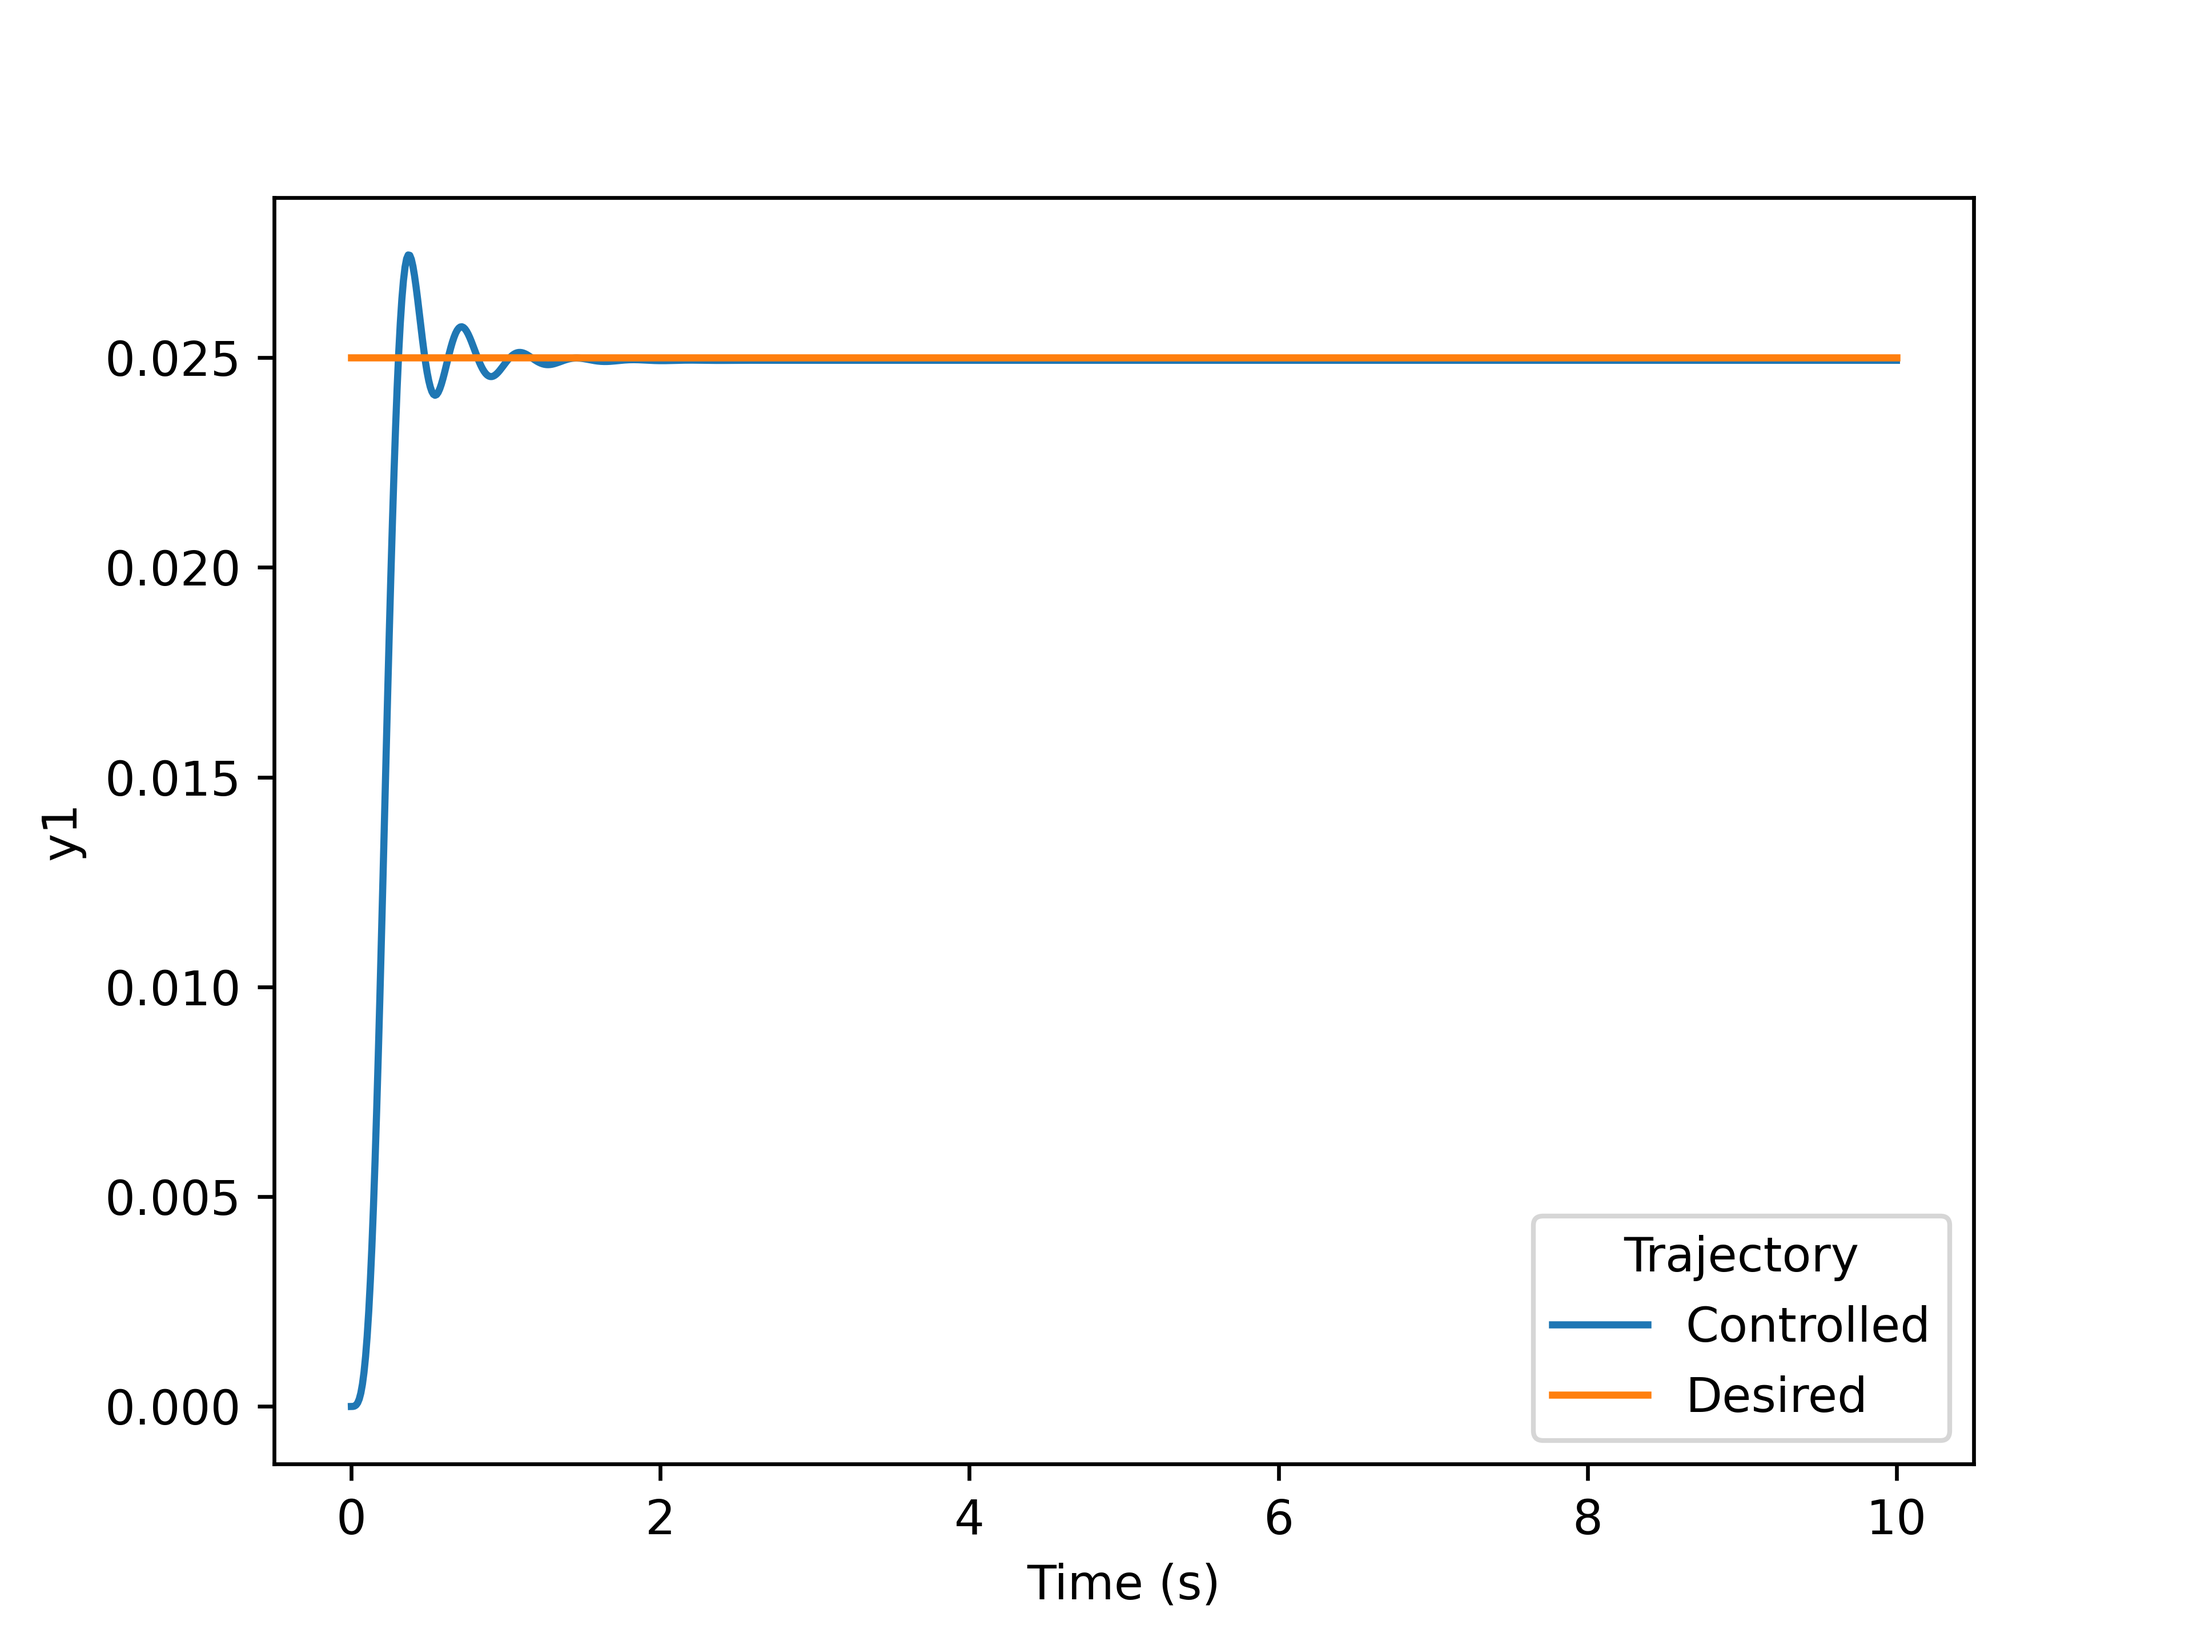
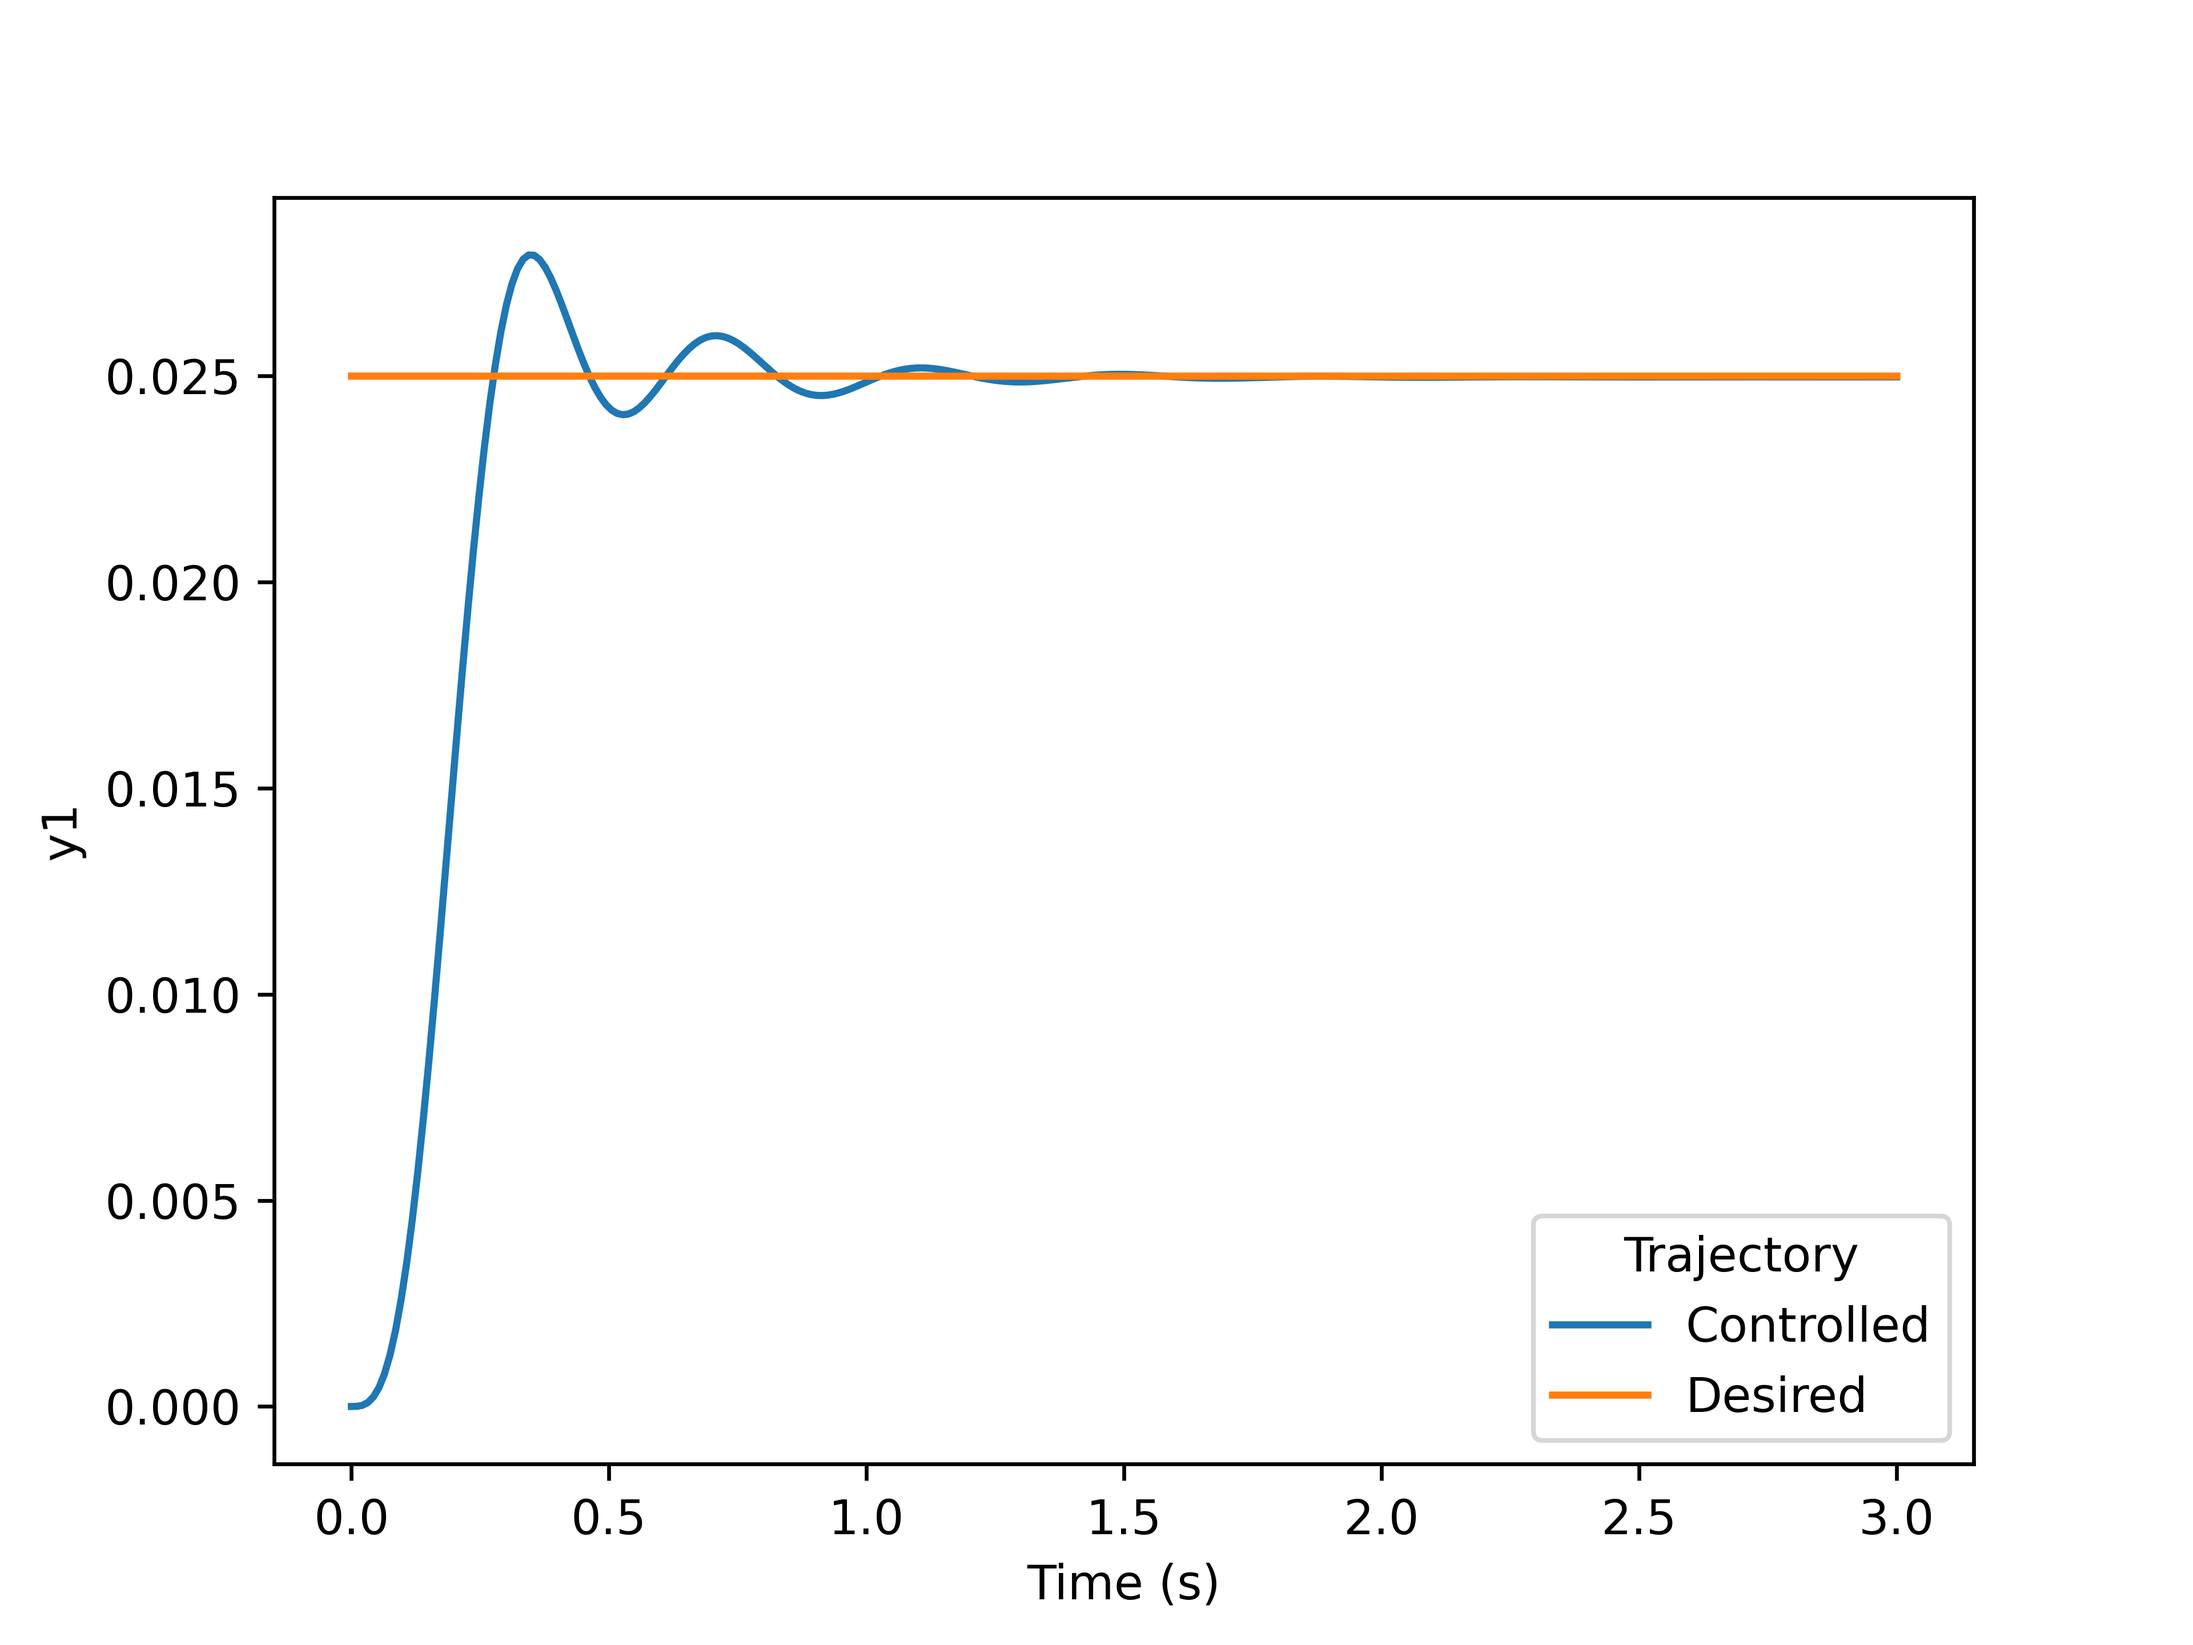
Bounds implemented for SD and AVL

diff --git a/MPC/src/utils.py b/MPC/src/utils.py
@@ -50,7 +50,7 @@ def simulate(a, b, c, u, x0, t_end):
     # Return states:
     return y, x
 
-def plot_graphs(time_ctrl, y, y_des, ctrl, opt):
+def plot_graphs(time_ctrl, y, y_des, ctrl, opt, bounds):
 
     # Plot spring dashpot system:
     if opt == 'spring_dashpot':
@@ -73,15 +73,22 @@ def plot_graphs(time_ctrl, y, y_des, ctrl, opt):
                 axs[i].set_ylabel(lab_opts[i])
             axs[-1].legend(title="Trajectory")
             axs[-1].set_xlabel('Time (s)')
+        plt.tight_layout()
+        plt.xlim([0, time_ctrl[-1]])
         plt.savefig('./output/Trajectory.png', dpi=600)
 
         # Plot control values:
         plt.figure()
         plt.plot(time_ctrl, ctrl, linewidth=4)
+        if bounds[0] is not None:
+            plt.axhline(y=bounds[0], color='r', linestyle='--')
+        if bounds[1] is not None:
+            plt.axhline(y=bounds[1], color='r', linestyle='--')
         plt.xlabel('Time (s)')
         plt.ylabel('Control Input')
-        plt.savefig('./output/Controls.png', dpi=600)
         plt.legend()
+        plt.xlim([0, time_ctrl[-1]])
+        plt.savefig('./output/Controls.png', dpi=600)
 
     # Plot AVL system:
     if opt == 'AVL':
@@ -91,7 +98,7 @@ def plot_graphs(time_ctrl, y, y_des, ctrl, opt):
                     'phi (deg)', 'x (m)', 'y (m)', 'z (m)', 'psi (deg)']
 
         # Plot position:
-        fig, ax1 = plt.subplots(3, 1, figsize=(10, 8))
+        fig, ax1 = plt.subplots(3, 1, figsize=(10, 8), sharex=True)
         fig.suptitle('Position States', fontsize=14)
         position_labels = ['x (m)', 'y (m)', 'z (m)']
         position_idx = [8, 9, 10]
@@ -103,9 +110,10 @@ def plot_graphs(time_ctrl, y, y_des, ctrl, opt):
             ax1[i].legend()
         ax1[-1].set_xlabel('Time (s)', fontsize=12)
         plt.tight_layout()
+        plt.xlim([0, time_ctrl[-1]])
 
         # Plot velocities:
-        fig, ax2 = plt.subplots(3, 1, figsize=(10, 8))
+        fig, ax2 = plt.subplots(3, 1, figsize=(10, 8), sharex=True)
         fig.suptitle('Velocity States', fontsize=14)
         velocity_labels = ['u (m/s)', 'v (m/s)', 'w (m/s)']
         velocity_idx = [0, 4, 1]
@@ -117,9 +125,10 @@ def plot_graphs(time_ctrl, y, y_des, ctrl, opt):
             ax2[i].legend()
         ax2[-1].set_xlabel('Time (s)', fontsize=12)
         plt.tight_layout()
+        plt.xlim([0, time_ctrl[-1]])
 
         # Plot Euler angles:
-        fig, ax3 = plt.subplots(3, 1, figsize=(10, 8))
+        fig, ax3 = plt.subplots(3, 1, figsize=(10, 8), sharex=True)
         fig.suptitle('Euler Angles', fontsize=14)
         angle_labels = ['\u0398 (deg)', '\u03A6 (deg)', '\u03A8 (deg)']
         angle_idx = [3, 7, 11]
@@ -131,9 +140,10 @@ def plot_graphs(time_ctrl, y, y_des, ctrl, opt):
             ax3[i].legend()
         ax3[-1].set_xlabel('Time (s)', fontsize=12)
         plt.tight_layout()
+        plt.xlim([0, time_ctrl[-1]])
 
         # Plot Euler rates:
-        fig, ax4 = plt.subplots(3, 1, figsize=(10, 8))
+        fig, ax4 = plt.subplots(3, 1, figsize=(10, 8), sharex=True)
         fig.suptitle('Angular Rates', fontsize=14)
         rate_labels = ['q (deg/s)', 'p (deg/s)', 'r (deg/s)']
         rate_idx = [2, 5, 6]
@@ -145,16 +155,22 @@ def plot_graphs(time_ctrl, y, y_des, ctrl, opt):
             ax4[i].legend()
         ax4[-1].set_xlabel('Time (s)', fontsize=12)
         plt.tight_layout()
+        plt.xlim([0, time_ctrl[-1]])
 
-        fig, ax5 = plt.subplots(4, 1, figsize=(10, 10))
+        fig, ax5 = plt.subplots(4, 1, figsize=(10, 10), sharex=True)
         fig.suptitle('Control Inputs', fontsize=14)
         control_labels = ['Camber (deg)', 'Aileron (deg)', 'Elevator (deg)', 'Rudder (deg)']
-        for i in range(ctrl.shape[2]):
-            ax5[i].plot(time_ctrl, np.rad2deg(ctrl[:, 0, i]), linewidth=4)
+        for i in range(ctrl.shape[1]):
+            ax5[i].plot(time_ctrl, np.rad2deg(ctrl[:, i]), linewidth=4)
+            if bounds[0, i] is not None:
+                ax5[i].axhline(np.rad2deg(bounds[0, i]), color='r', linestyle='--')
+            if bounds[1, i] is not None:
+                ax5[i].axhline(np.rad2deg(bounds[1, i]), color='r', linestyle='--')
             ax5[i].set_ylabel(control_labels[i], fontsize=12)
             ax5[i].grid(True, alpha=0.3)
         ax5[-1].set_xlabel('Time (s)', fontsize=12)
         plt.tight_layout()
+        plt.xlim([0, time_ctrl[-1]])
 
 def train_rbf():
 

diff --git a/MPC/driver_AVL.py b/MPC/driver_AVL.py
@@ -43,13 +43,13 @@ C_cts = np.eye(12)
 x0 = np.array([15, 0, 0, 0, 0, 0, 0, 0, 0, 0, 0, 0])
 
 # Define weight scales:
-Q0_scaler = 1000000
-Q_scaler = 0.0001
-P_scaler = 0.00001
+Q0_scaler = 1e-4
+Q_scaler = 1e-2
+P_scaler = 1e2
 
 # Define control bounds:
-u_min = -np.deg2rad(np.array([30, 30, 30, 30]))
-u_max = np.deg2rad(np.array([30, 30, 30, 30]))
+u_max = np.deg2rad(np.array([20, 20, 20, 20])).T
+u_min = -u_max
 
 ####################################################################
 
@@ -119,16 +119,12 @@ for i in range(f):
 
 # --- Desired trajectories ---
 traj = np.zeros((n_tsteps, 12))
-traj[:, 0] = 15 * np.ones(n_tsteps)
-# traj[:, 1] = np.linspace(0, 5, n_tsteps)
-# traj[:, 2] = np.linspace(0, 5, n_tsteps)
+traj[:, 0] = np.linspace(15, 10, n_tsteps)
 traj[:, 8] = np.linspace(0, 15 * t_end, n_tsteps)
-# traj[:, 10] = np.linspace(0, 10, n_tsteps)
 
 # --- Use MPC controller ---
 # Build MPC object:
-mpc = MPC(A, B, C, f, v, W3, W4, x0, traj)
-# mpc = MPC(A, B, C, f, v, W3, W4, x0, traj, u_min, u_max)
+mpc = MPC(A, B, C, f, v, W3, W4, x0, traj, u_min, u_max)
 
 # Use controller:
 for i in range(n_tsteps - f):
@@ -150,7 +146,7 @@ y_des = np.array(y_des)
 ctrl = np.array(ctrl)
 
 # Plot graphs:
-plot_graphs(time_ctrl, y, y_des, ctrl, 'AVL')
+plot_graphs(time_ctrl, y, y_des, ctrl, 'AVL', np.array([u_min, u_max]))
 
 # Show results:
 plt.show()

diff --git a/MPC/src/MPC.py b/MPC/src/MPC.py
@@ -151,12 +151,12 @@ class MPC(object):
         y_des_curr = y_des_curr.flatten().reshape(-1, 1)
 
         # Compute prediction offset:
-        Ox = self.O @ self.states[self.curr_step]
+        Ox = (self.O @ self.states[self.curr_step]).reshape(-1, 1)
         s = Ox - y_des_curr
 
         # Build QP cost:
         H = self.M.T @ self.W4 @ self.M + self.W3
-        H = (H + H.T) / 2  # ensure symmetry
+        H = (H + H.T) / 2
 
         # Cost linear term
         f = (self.M.T @ (self.W4 @ s)).reshape(self.m * self.v)

diff --git a/MPC/driver_SD.py b/MPC/driver_SD.py
@@ -69,6 +69,10 @@ P[:, :, :] = 1e2
 u_max = np.array([5])
 u_min = -u_max
 
+# Optional: NO BOUNDS:
+# u_max = None
+# u_min = None
+
 ####################################################################
 
 # Fetch dimensions:
@@ -137,7 +141,7 @@ y_des = np.array(y_des)
 ctrl = np.array(ctrl)
 
 # Plot graphs:
-plot_graphs(time_ctrl, y, y_des, ctrl, 'spring_dashpot')
+plot_graphs(time_ctrl, y, y_des, ctrl, 'spring_dashpot', np.array([u_min, u_max]))
 
 # Show results:
 plt.show()
